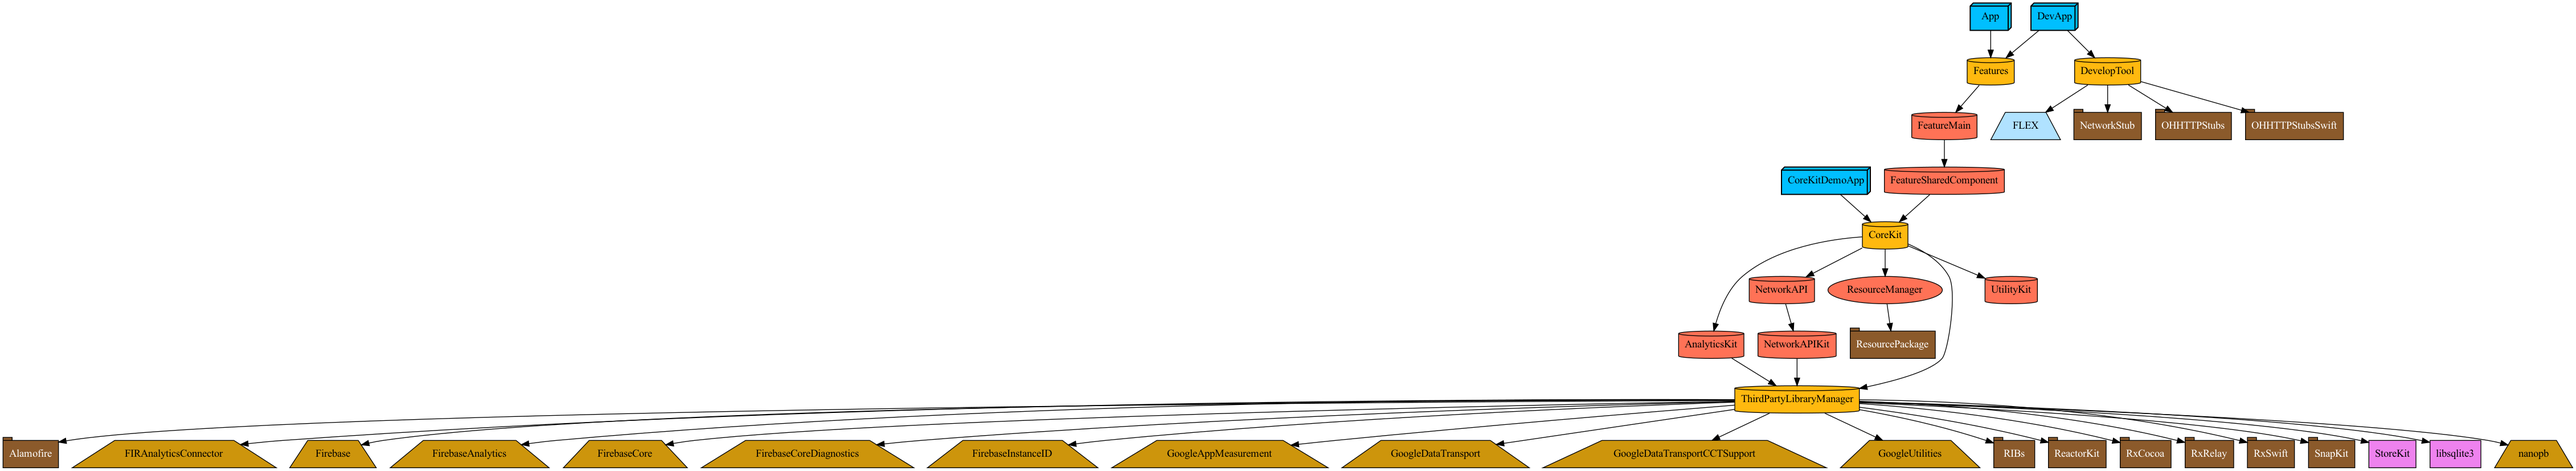
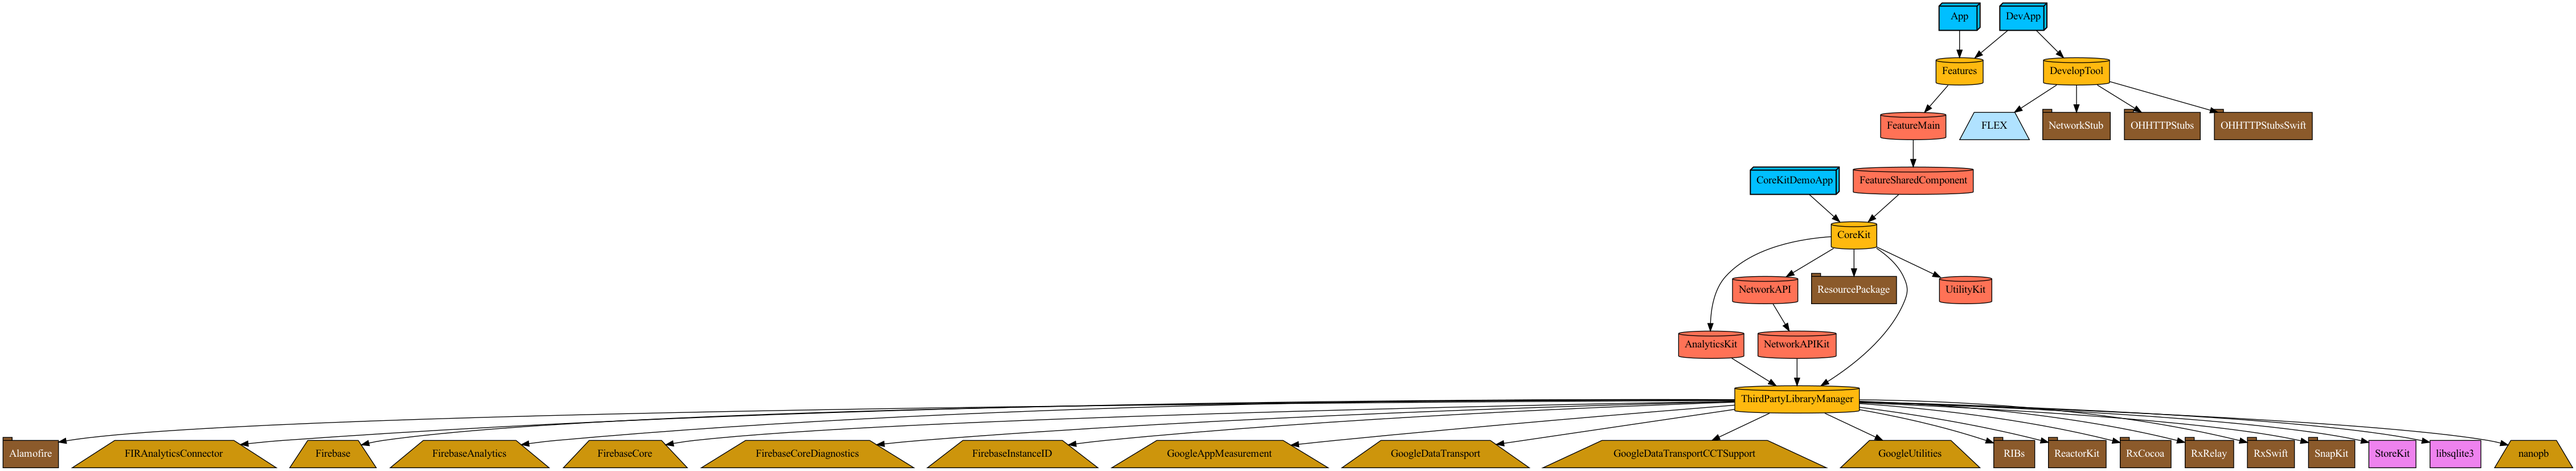
ResourceManager 제거

diff --git a/Plugin/UtilityPlugin/ProjectDescriptionHelpers/Dependency+Project.swift b/Plugin/UtilityPlugin/ProjectDescriptionHelpers/Dependency+Project.swift
@@ -25,7 +25,6 @@ public extension TargetDependency.Project {
     static let NetworkAPIKit            = TargetDependency.module(name: "NetworkAPIKit")
     static let NetworkAPI               = TargetDependency.module(name: "NetworkAPI")
     static let CoreKit                  = TargetDependency.module(name: "CoreKit")
-    static let ResourceManager          = TargetDependency.module(name: "ResourceManager")
     static let DevelopTool              = TargetDependency.module(name: "DevelopTool")
     static let AnalyticsKit             = TargetDependency.module(name: "AnalyticsKit")
     static let ThirdPartyLibraryManager = TargetDependency.module(name: "ThirdPartyLibraryManager")

diff --git a/Projects/Modules/CoreKit/Project.swift b/Projects/Modules/CoreKit/Project.swift
@@ -3,11 +3,14 @@ import ProjectDescriptionHelpers
 
 let project = Project
     .framework(name: "CoreKit",
+               packages: [
+                .ResourcePackage
+               ],
                dependencies: [
                 .Project.NetworkAPI,
                 .Project.UtilityKit,
-                .Project.ResourceManager,
                 .Project.AnalyticsKit,
                 .Project.ThirdPartyLibraryManager,
+                .SwiftPM.ResourcePackage,
                ],
                hasDemoApp: true)

diff --git a/Projects/Modules/ResourcePackage/Sources/ResourcePackage/ResourcePackage.swift b/Projects/Modules/ResourcePackage/Sources/ResourcePackage/ResourcePackage.swift
@@ -1,5 +1,8 @@
 import Foundation
 
-public extension Bundle {
-    static var resourcePackage: Bundle { .module }
+public struct R {
+    static var bundle: Bundle { return .module }
+
+    public struct Image {}
+    public struct Color {}
 }
